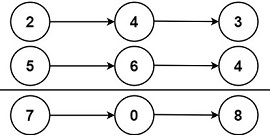
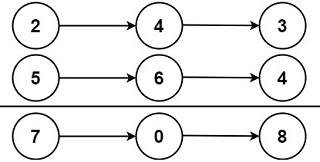
resize images

diff --git a/docs/source/Mathematics/09_MTH_1641_Count_Sorted_Vowel_Strings.md b/docs/source/Mathematics/09_MTH_1641_Count_Sorted_Vowel_Strings.md
@@ -125,12 +125,14 @@ s = "aa..a|ee..e|ii..i|oo..o|uu..u",
 ```
 the problem becomes counting how many ways of putting those 4 separators `'|'` to form a string of length `n + 4`. 
 
-![The formula of the binomial coefficient](09_MTH_1641_binomialcoef.png)
 
-In combinatorics, the solution is `(n + 4 choose 4)`, where `(n choose k)` is the [binomial coefficient](https://en.wikipedia.org/wiki/Binomial_coefficient).
+In combinatorics, the solution is `(n + 4 choose 4)`, where `(n choose k)` is the [binomial coefficient](https://en.wikipedia.org/wiki/Binomial_coefficient):
 
+![The formula of the binomial coefficient](09_MTH_1641_binomialcoef.jpg)
 
-![The formula of the final solution](09_MTH_1641_solution.png)
+The final number of strings is
+
+![The formula of the final solution](09_MTH_1641_solution.jpg)
 
 
 ### Code

diff --git a/docs/source/Array/01_ARR_1260_Shift_2D_Grid.md b/docs/source/Array/01_ARR_1260_Shift_2D_Grid.md
@@ -14,7 +14,7 @@ Return the 2D grid after applying shift operation `k` times.
 
 ### Example 1
 
-![The grid of Example 1 and its shifting](01_ARR_1260_e1.png)
+![The grid of Example 1 and its shifting](01_ARR_1260_e1.jpg)
 
 ```text
 Input: grid = [[1,2,3],[4,5,6],[7,8,9]], k = 1
@@ -23,7 +23,7 @@ Output: [[9,1,2],[3,4,5],[6,7,8]]
 
 ### Example 2
 
-![The grid of Example 2 and its shifting](01_ARR_1260_e2.png)
+![The grid of Example 2 and its shifting](01_ARR_1260_e2.jpg)
 
 ```text
 Input: grid = [[3,8,1,9],[19,7,2,5],[4,6,11,10],[12,0,21,13]], k = 4
